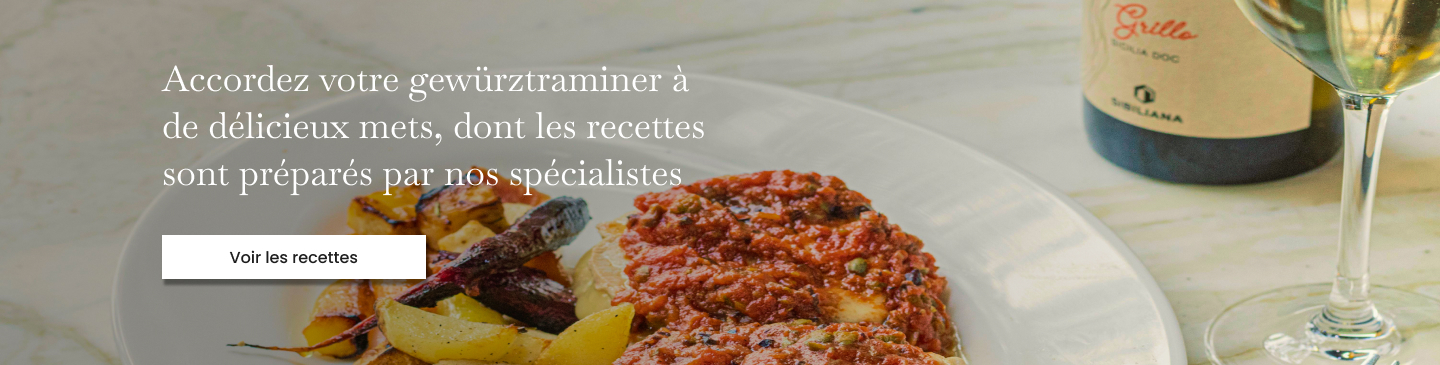
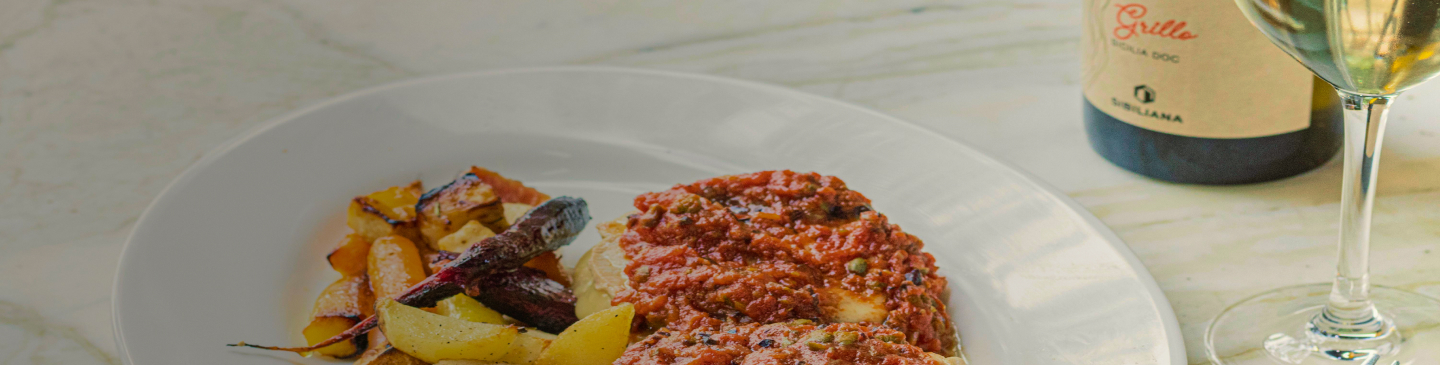
code base finie

diff --git a/src/vin_blanc.html b/src/vin_blanc.html
@@ -31,16 +31,16 @@
           <div class="container">
             <div class="row">
               <div class="col vin-rouge-main">
-                <img src="img/vin-rouge.jpg" alt="vin rouge" />
+                <img src="img/vin-blanc.jpg" alt="vin rouge" />
               </div>
             </div>
             <div class="row contenu-1">
               <div class="col-4 titre-cta">
-                <p>PINOT NOIR, GAMAY</p>
+                <p>GEWÜRZTRAMINER</p>
                 <button>Commander</button>
               </div>
               <div class="col-6 détails">
-                <h1>382.-</h1>
+                <h1>376.-</h1>
                 <p>75cl , 13,7%</p>
               </div>
             </div>
@@ -59,24 +59,24 @@
               <div class="col-6 détails-titrage">
                 <p>Valais</p>
                 <p>2024</p>
-                <p>100% Pinot Noir</p>
-                <p>1894</p>
-                <p>2021</p>
+                <p>100% GEWÜRZTRAMINER</p>
+                <p>1888</p>
+                <p>2019</p>
               </div>
             </div>
             <div class="row infos">
-              <div class="col-8">Potentiel de garde : 8-10 ans</div>
-              <div class="col-8">Température de service : 14-18°C</div>
+              <div class="col-8">Potentiel de garde : 4-7 ans</div>
+              <div class="col-8">Température de service : 12-13°C</div>
             </div>
             <div class="row savoir">
               <div class="col-8"><h1>Pour en savoir plus...</h1></div>
               <div class="col-8">
                 <p>
-                  Robe : Rouge rubis brillante. Nez : Arômes de cerise, de
-                  framboise, avec des touches florales et une subtile
-                  minéralité. Bouche : Fraîche et élégante, avec des tanins fins
-                  et une acidité équilibrée, laissant une finale légèrement
-                  épicée.
+                  Robe dorée limpide aux reflets brillants, nez complexe mêlant
+                  fleurs blanches, fruits à chair jaune (abricot, pêche) et une
+                  pointe de vanille. En bouche, une texture ample et onctueuse,
+                  soutenue par une fraîcheur vive. élégante, marquée par des
+                  nuances d’amandes grillées et de miel.
                 </p>
               </div>
             </div>
@@ -95,11 +95,11 @@
       </div>
     </div>
 
-    <div class="image-banner3">
+    <div class="image-banner3-1">
       <div class="container">
         <div class="row">
           <div class="col-7 text">
-            Accordez votre pinot noir à de délicieux mets, dont les recettes
+            Accordez votre gewürztraminer à de délicieux mets, dont les recettes
             sont préparés par nos spécialistes
           </div>
         </div>
@@ -121,9 +121,7 @@
         </div>
         <div class="row">
           <div class="col-3 offset-9">
-            <a href="vin_blanc.html">
-              <button class="bouton-2">Découvrir nos vins</button>
-            </a>
+            <button class="bouton-2">Découvrir nos vins</button>
           </div>
         </div>
       </div>

diff --git a/src/scss/main.scss b/src/scss/main.scss
@@ -496,3 +496,81 @@ body {
   margin-bottom: 59px;
   border: none;
 }
+
+.nav-secondaire p {
+  margin-top: 104px;
+  margin-bottom: 52px;
+  color: var(--vin-black, #000);
+  display: flex;
+  width: 738px;
+  justify-content: center;
+  align-items: center;
+  gap: 21px;
+}
+
+.détails h1 {
+  text-align: right;
+  font-size: 24px;
+  font-weight: 600;
+  margin-bottom: 45px;
+}
+
+.détails p {
+  text-align: right;
+  font-size: 24px;
+  font-style: italic;
+  font-weight: 400;
+}
+
+.titrage {
+  font-family: Poppins;
+  font-size: 20px;
+  font-weight: 700;
+}
+
+.titrage p {
+  margin-bottom: 9px;
+}
+
+.détails-titrage {
+  font-size: 20px;
+  font-weight: 400;
+}
+
+.détails-titrage p {
+  margin-bottom: 9px;
+}
+
+.infos {
+  font-size: 20px;
+  font-style: italic;
+  font-weight: 500;
+
+  margin-top: 45px;
+  margin-bottom: 45px;
+}
+
+.savoir h1 {
+  font-size: 20px;
+  font-style: italic;
+  font-weight: 700;
+  margin-bottom: 9px;
+}
+¨.savoir p {
+  font-size: 20px;
+  font-weight: 400;
+}
+
+.image-banner3-1 {
+  background-image: url(../img/banner3-1.jpg);
+  background-size: cover;
+}
+
+.image-banner3-1 .text {
+  color: var(--vin-white, #fff);
+  font-family: Baskervville;
+  font-size: 36px;
+  font-weight: 400;
+  margin-top: 80px;
+  margin-bottom: 40px;
+}
